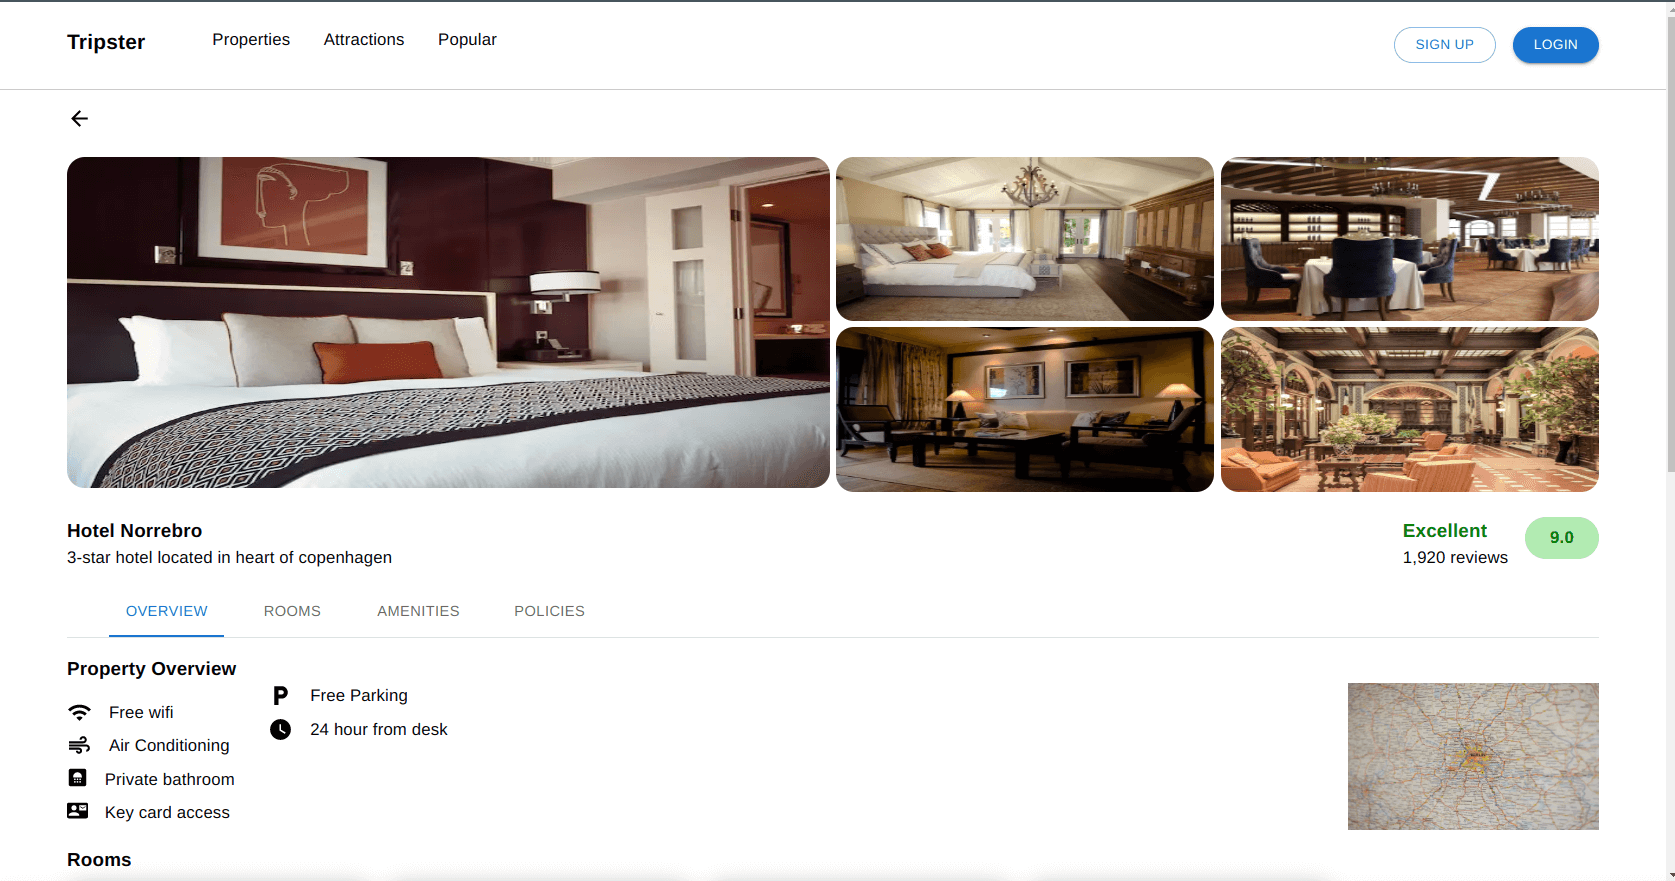
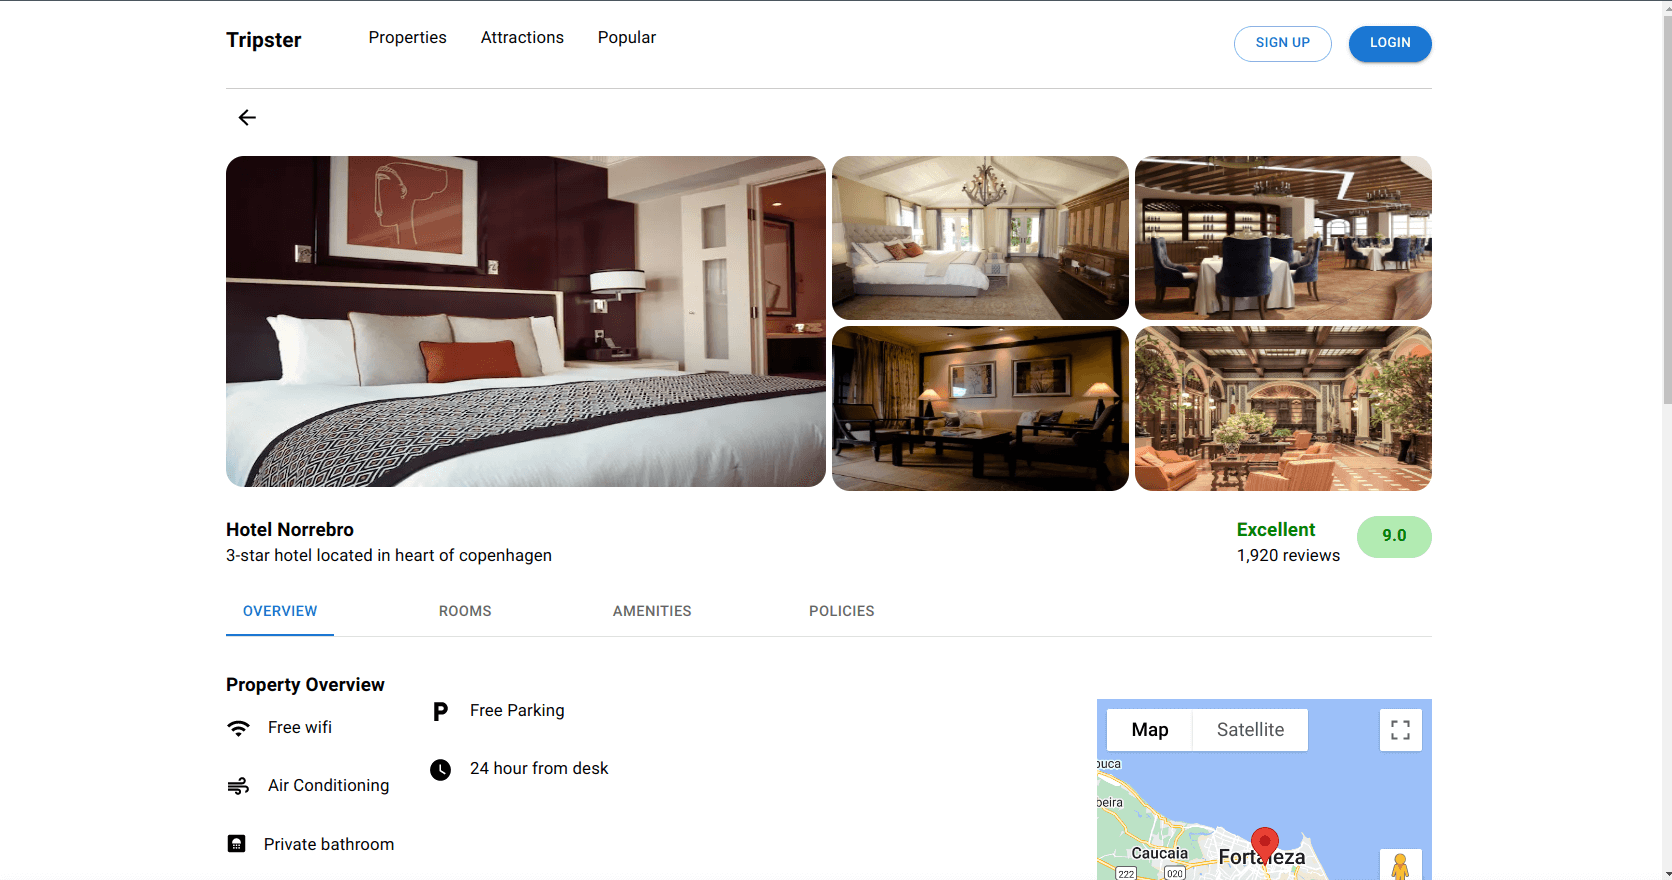
Refactor

diff --git a/src/components/Header.tsx b/src/components/Header.tsx
@@ -8,86 +8,88 @@ import Stack from "@mui/material/Stack";
 export default class Header extends Component {
   render() {
     return (
-      <Stack
-        direction={{ md: "row", xs: "column" }}
-        justifyContent="space-between"
-        py={{ md: 3, xs: 2 }}
-        px={{ md: 8, xs: 1 }}
-        spacing={1}
-        borderBottom="1px solid #ccc"
-      >
-        <Stack direction="row" spacing={{ md: 4, xs: 2 }}>
-          <Typography
-            fontSize={20}
-            href="/"
-            color="#000"
-            fontWeight={700}
-            component={Link}
-            mr={{ md: 4, xs: 1 }}
-          >
-            Tripster
-          </Typography>
-          <Typography
-            href="/properties"
-            color="#000"
-            sx={{
-              "&:hover": {
-                textDecoration: "underline",
-              },
-            }}
-            component={Link}
-          >
-            Properties
-          </Typography>
-          <Typography
-            href="/attractions"
-            color="#000"
-            sx={{
-              "&:hover": {
-                textDecoration: "underline",
-              },
-            }}
-            component={Link}
-          >
-            Attractions
-          </Typography>
-          <Typography
-            href="/popular"
-            color="#000"
-            sx={{
-              "&:hover": {
-                textDecoration: "underline",
-              },
-            }}
-            component={Link}
-          >
-            Popular
-          </Typography>
+      <div className="header">
+        <Stack
+          direction={{ md: "row", xs: "column" }}
+          justifyContent="space-between"
+          py={{ md: 3, xs: 2 }}
+          // px={{ md: 8, xs: 1 }}
+          spacing={1}
+          borderBottom="1px solid #ccc"
+        >
+          <Stack direction="row" spacing={{ md: 4, xs: 2 }}>
+            <Typography
+              fontSize={20}
+              href="/"
+              color="#000"
+              fontWeight={700}
+              component={Link}
+              mr={{ md: 4, xs: 1 }}
+            >
+              Tripster
+            </Typography>
+            <Typography
+              href="/properties"
+              color="#000"
+              sx={{
+                "&:hover": {
+                  textDecoration: "underline",
+                },
+              }}
+              component={Link}
+            >
+              Properties
+            </Typography>
+            <Typography
+              href="/attractions"
+              color="#000"
+              sx={{
+                "&:hover": {
+                  textDecoration: "underline",
+                },
+              }}
+              component={Link}
+            >
+              Attractions
+            </Typography>
+            <Typography
+              href="/popular"
+              color="#000"
+              sx={{
+                "&:hover": {
+                  textDecoration: "underline",
+                },
+              }}
+              component={Link}
+            >
+              Popular
+            </Typography>
+          </Stack>
+          <Stack direction="row" spacing={2} textAlign={{ xs: "center" }}>
+            <Button
+              size="small"
+              sx={{
+                borderRadius: "25px",
+                padding: "5px 20px",
+              }}
+              variant="outlined"
+            >
+              Sign up
+            </Button>
+            <Button
+              size="small"
+              sx={{
+                borderRadius: "25px",
+                padding: "5px 20px",
+              }}
+              variant="contained"
+              color="primary"
+            >
+              Login
+            </Button>
+          </Stack>
         </Stack>
-        <Stack direction="row" spacing={2} textAlign={{ xs: "center" }}>
-          <Button
-            size="small"
-            sx={{
-              borderRadius: "25px",
-              padding: "5px 20px",
-            }}
-            variant="outlined"
-          >
-            Sign up
-          </Button>
-          <Button
-            size="small"
-            sx={{
-              borderRadius: "25px",
-              padding: "5px 20px",
-            }}
-            variant="contained"
-            color="primary"
-          >
-            Login
-          </Button>
-        </Stack>
-      </Stack>
+      </div>
     );
   }
 }

diff --git a/src/components/Reviews.tsx b/src/components/Reviews.tsx
@@ -4,11 +4,12 @@ import Typography from "@mui/material/Typography";
 import Progress from "./Progress";
 import CustomRating from "./Rating";
 import { progressData } from "@/app/data";
+import Stack from "@mui/material/Stack";
 
 export default class Reviews extends Component {
   render() {
     return (
-      <Box mx={1} mt={4} mb={2}>
+      <Box mt={4} mb={2}>
         <Typography fontSize={18} fontWeight={700}>
           Reviews
         </Typography>
@@ -18,14 +19,21 @@ export default class Reviews extends Component {
           justifyContent="space-between"
           gap={2}
         >
-          <Box display="flex" flexDirection="column" gap={3} width="310px">
+          <Stack
+            direction="column"
+            spacing={3}
+            width={{
+              xs: "100%",
+              md: "310px",
+            }}
+          >
             <Typography color="blue" mt={1} fontSize={20} fontWeight={700}>
               9.6/10
             </Typography>
             {progressData.map(({ rating, text, value, id }) => (
               <Progress key={id} rating={rating} text={text} value={value} />
             ))}
-          </Box>
+          </Stack>
           <Box display="flex" flexDirection="column" gap={2}>
             <Typography fontSize={16} fontWeight={700}>
               Excellent value for the price

diff --git a/src/app/globals.css b/src/app/globals.css
@@ -1,4 +1,4 @@
- :root {
+:root {
   --max-width: 1100px;
   --border-radius: 12px;
   --font-mono: ui-monospace, Menlo, Monaco, 'Cascadia Mono', 'Segoe UI Mono',
@@ -90,18 +90,18 @@ a {
   text-decoration: none;
 }
 /* @media only screen and (min-width : 1024px) { */
-  .MuiTabs-flexContainer{
-    gap: 80px;
-  }
+.MuiTabs-flexContainer {
+  gap: 80px;
+}
 /* } */
-.MuiTabScrollButton-root{
+.MuiTabScrollButton-root {
   width: 0;
 }
-@media (max-width:640px)  {
-  .MuiTabs-flexContainer{
+@media (max-width: 640px) {
+  .MuiTabs-flexContainer {
     gap: 15px;
   }
-  .MuiTabScrollButton-root{
+  .MuiTabScrollButton-root {
     width: 20px;
   }
 }
@@ -112,14 +112,36 @@ a {
 }
 
 /* custom list items */
-.custom-list{
+.custom-list {
   margin-top: 1rem;
   display: flex;
   flex-direction: column;
   margin-left: 1rem;
 }
-.custom-list li{
+.custom-list li {
   list-style: inside;
   padding-top: 0.5rem;
   padding-bottom: 0.5rem;
+}
+
+.header {
+  width: 100%;
+  margin-left: auto;
+  box-sizing: border-box;
+  margin-right: auto;
+  display: block;
+  padding-left: 16px;
+  padding-right: 16px;
+}
+
+@media (min-width: 600px) {
+  .header {
+    padding-left: 24px;
+    padding-right: 24px;
+  }
+}
+@media (min-width: 1200px) {
+  .header {
+    max-width: 1200px;
+  }
 }

diff --git a/src/components/Room.tsx b/src/components/Room.tsx
@@ -12,11 +12,11 @@ import { rooms } from "@/app/data";
 export default class Room extends Component {
   render() {
     return (
-      <Box mx={1}>
+      <>
         <Typography fontSize={18} fontWeight={700}>
           Rooms
         </Typography>
-        <Box display="flex" flexWrap="wrap" mt={1} gap={6}>
+        <Box display="flex" flexWrap="wrap" mt={1} gap={3}>
           {rooms.map(({ cost, id, img, people, room, sqm, text, tittle }) => (
             <Stack
               key={id}
@@ -26,12 +26,12 @@ export default class Room extends Component {
               boxShadow="0 0 20px rgba(0,0,0,0.2)"
               borderRadius={4}
               // width="290px"
-              width={{ xs: "100%", md: "290px" }}
+              width={{ xs: "100%", md: "270px" }}
             >
               <Stack
                 display="flex"
                 position="relative"
-                width={{ xs: "100%", md: "290px" }}
+                width={{ xs: "100%", md: "270px" }}
                 height={140}
               >
                 <Image
@@ -76,7 +76,7 @@ export default class Room extends Component {
             </Stack>
           ))}
         </Box>
-      </Box>
+      </>
     );
   }
 }

diff --git a/src/app/page.tsx b/src/app/page.tsx
@@ -8,25 +8,28 @@ import Description from "@/components/Description";
 import Room from "@/components/Room";
 import Reviews from "@/components/Reviews";
 import Stack from "@mui/material/Stack";
+import Container from "@mui/material/Container";
 
 export default function Home() {
   return (
-    <Stack
-      display="flex"
-      flexDirection="column"
-      gap={2}
-      my={1}
-      mx={{ md: 7, xs: 1 }}
-    >
-      <Box display="flex">
-        <IconButton href="/" color="inherit" component={Link}>
-          <ArrowBackIcon fontSize="medium" />
-        </IconButton>
-      </Box>
-      <Hero />
-      <Description />
-      <Room />
-      <Reviews />
-    </Stack>
+    <Container maxWidth="lg">
+      <Stack
+        display="flex"
+        flexDirection="column"
+        gap={2}
+        my={1}
+        // mx={{ md: 7, xs: 1 }}
+      >
+        <Box display="flex">
+          <IconButton href="/" color="inherit" component={Link}>
+            <ArrowBackIcon fontSize="medium" />
+          </IconButton>
+        </Box>
+        <Hero />
+        <Description />
+        <Room />
+        <Reviews />
+      </Stack>
+    </Container>
   );
 }

diff --git a/src/components/Description.tsx b/src/components/Description.tsx
@@ -98,7 +98,7 @@ export default class Description extends Component<any, IState> {
 
   render() {
     return (
-      <Box mx={1}>
+      <>
         <Box sx={{ borderBottom: 1, borderColor: "divider" }}>
           <Tabs
             value={this.state.value}
@@ -126,7 +126,7 @@ export default class Description extends Component<any, IState> {
         <TabPanel value={this.state.value} index={3}>
           Policies
         </TabPanel>
-      </Box>
+      </>
     );
   }
 }

diff --git a/src/components/Hero.tsx b/src/components/Hero.tsx
@@ -11,7 +11,7 @@ import { listItem } from "@/app/data";
 export default class Hero extends Component {
   render() {
     return (
-      <Box display="flex" flexDirection="column" mx={1} gap={3}>
+      <Box display="flex" flexDirection="column" gap={3}>
         <Box width="100%">
           <ImageList
             rowHeight="auto"
